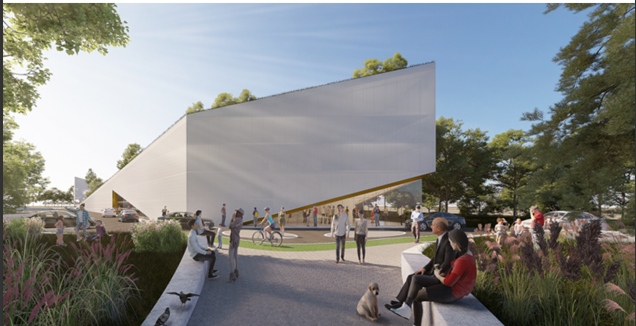
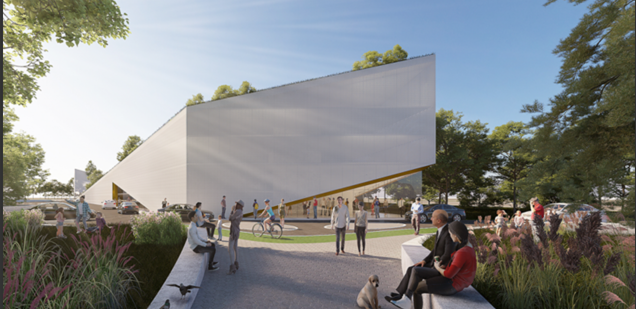
demo

diff --git a/src/routes/about.tsx b/src/routes/about.tsx
@@ -1,7 +1,7 @@
 import { createFileRoute } from "@tanstack/react-router";
 import { PageHead, Reveal, Section, SectionLabel } from "@/components/site/primitives";
 import { ROADMAP } from "@/lib/site-data";
-import solarPanel from "@/assets/solar-panel.png";
+import solarPanel from "@/assets/about.png";
 
 export const Route = createFileRoute("/about")({
   head: () => ({
@@ -69,7 +69,7 @@ function About() {
             </div>
           </Reveal>
           <Reveal className="lg:col-span-6" delay={100}>
-            <div className="flex justify-center bg-surface-2 p-10">
+            <div className="flex justify-center p-10">
               <img
                 src={solarPanel}
                 alt="Solar panel from the PowerIn Urja corporate presentation"

diff --git a/src/routes/index.tsx b/src/routes/index.tsx
@@ -2,7 +2,7 @@ import { createFileRoute, Link } from "@tanstack/react-router";
 import { useState } from "react";
 import { Card, Eyebrow, Reveal, Section, SectionLabel } from "@/components/site/primitives";
 import { CONTACT, KPIS, ROADMAP, TEAM, VALUE_CHAIN, VISION_PILLARS } from "@/lib/site-data";
-import waferHero from "@/assets/img1.jpeg";
+import waferHero from "@/assets/img-new.png";
 import siteContext from "@/assets/site-context.png";
 import rajBasu from "@/assets/raj-basu.png";
 

diff --git a/src/components/site/ThemeToggle.tsx b/src/components/site/ThemeToggle.tsx
@@ -9,8 +9,7 @@ export function ThemeToggle() {
 
   useEffect(() => {
     const stored = window.localStorage.getItem("piu-theme") as "light" | "dark" | null;
-    const initial =
-      stored ?? (window.matchMedia("(prefers-color-scheme: dark)").matches ? "dark" : "light");
+    const initial = stored ?? "light";
     setTheme(initial);
     apply(initial);
   }, []);
